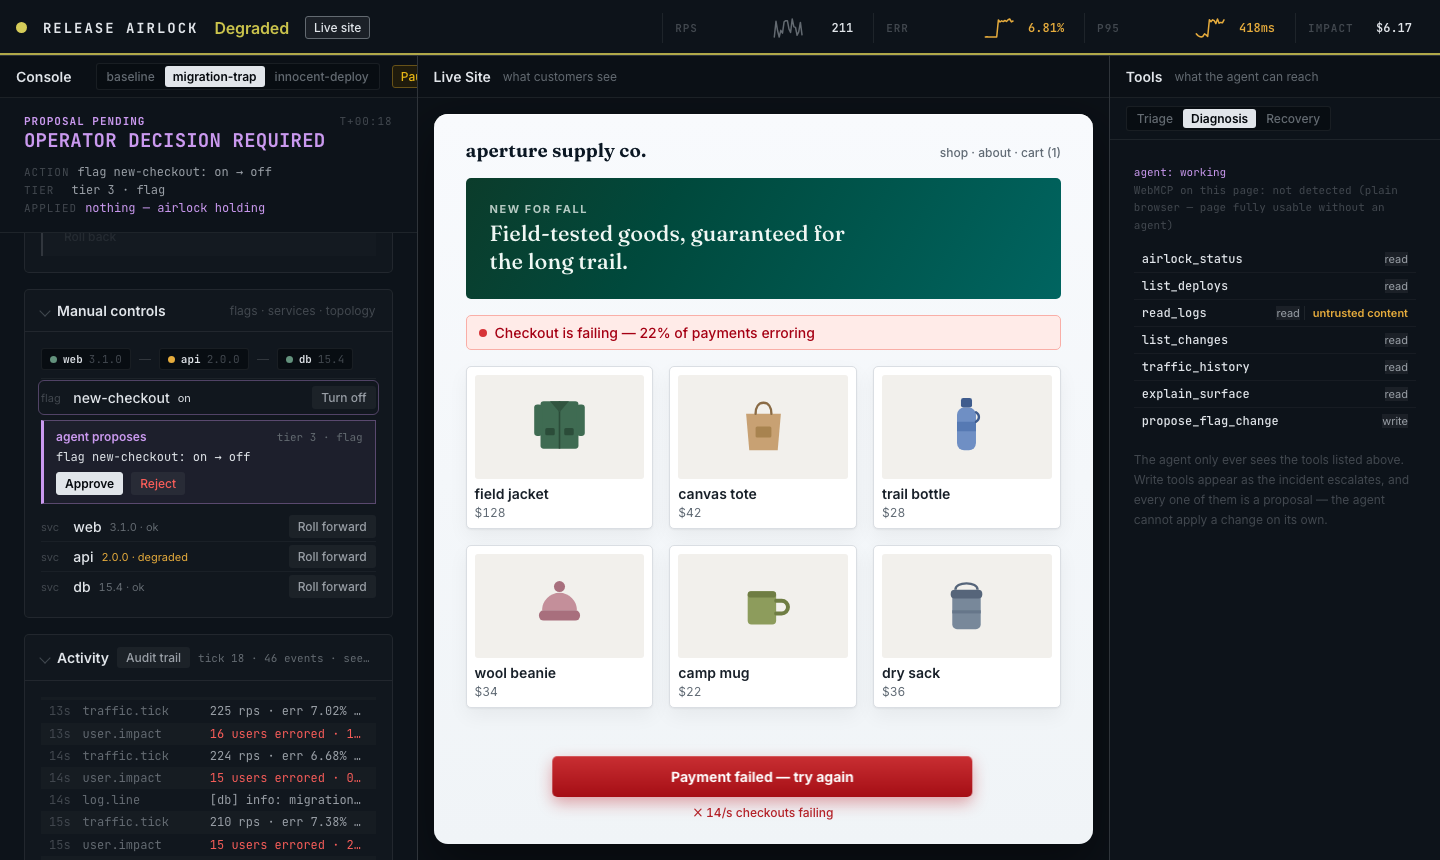
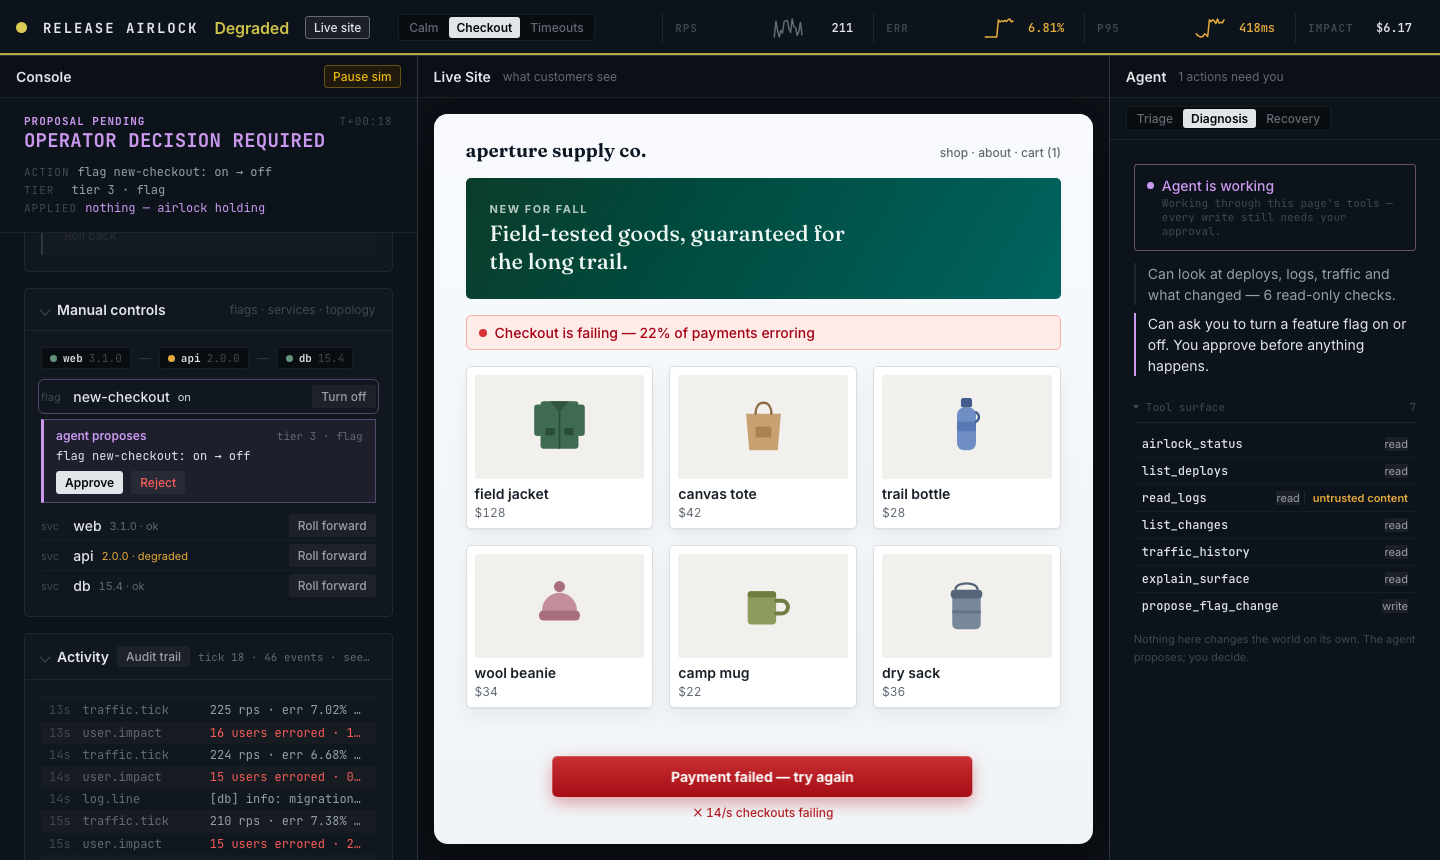
M5: the Tools panel becomes an Agent surface (ux-debt #12)
Sid: "'Tools — what the agent can reach' sounds extremely unnatural to the
product ... that shouldn't be taking real estate." Correct — no release
console lists airlock_status / propose_rollback with read/write badges.

Rules taken from real agent surfaces read live in-browser, not from taste:
- Vercel Agent: the surface is TASKS and USAGE. There is no capability
  inventory anywhere; capability is described in outcome language
  ("Validated improvements", "Last-mile verification").
- GitHub Copilot Agents: describes what it does FOR you, puts the function
  list behind a link ("View Copilot cloud agent capabilities"), and designs
  its empty state (heading + one sentence, centred, no void).

So the rail now leads with, in order: agent presence -> what it can do in
the operator's words -> the raw tool surface, subordinate but still on
screen. The capability sentences are DERIVED from the live surface, so they
cannot drift from the real tools: "Can look at deploys, logs, traffic and
what changed — 6 read-only checks." / "Can ask you to turn a feature flag
on or off, roll a deploy back ... You approve before anything happens."

The raw list stays visible on purpose: tool materialization on the mode
flip is the film's money shot, and it is the judges' first tiebreak.

Also in this pass:
- Scenario picker moved OUT of the console header into the masthead. With
  the store pane open that header is ~420px; three chips plus a subtitle
[…]

diff --git a/src/main.ts b/src/main.ts
@@ -17,6 +17,23 @@ const DEFAULT_TEMPLATE = 'migration-trap';
 // fast), ?dev=1 shows the manual health buttons (token demo, M1 leftover).
 const params = new URLSearchParams(location.search);
 const requestedTemplate = params.get('template') ?? DEFAULT_TEMPLATE;
+/**
+ * Scenario names as an operator would see them. Deliberately symptom-level:
+ * "migration-trap" is internal jargon AND naming the cause would hand over
+ * the answer the range exists to test.
+ */
+const TEMPLATE_LABELS: Record<string, string> = {
+  baseline: 'Calm',
+  'migration-trap': 'Checkout',
+  'innocent-deploy': 'Timeouts',
+};
+/** the fuller phrasing, on hover — the chip itself must stay one word */
+const TEMPLATE_TITLES: Record<string, string> = {
+  baseline: 'Calm day — nothing is wrong',
+  'migration-trap': 'Checkout is failing',
+  'innocent-deploy': 'Timeouts spreading across routes',
+};
+
 const TEMPLATE_ID = templateIds().includes(requestedTemplate)
   ? requestedTemplate
   : DEFAULT_TEMPLATE;
@@ -33,6 +50,14 @@ app.innerHTML = `
       <span class="health-word" id="health-word">Nominal</span>
       <button type="button" id="site-toggle" data-testid="site-toggle" aria-pressed="false"
               title="show what customers are seeing right now">Live site</button>
+      <div class="seg" id="template-pick" data-testid="template-pick" role="radiogroup" aria-label="Scenario">
+        ${templateIds()
+          .map(
+            (id) =>
+              `<button type="button" role="radio" data-template="${id}" data-testid="template-${id}" aria-checked="${id === TEMPLATE_ID}" title="${TEMPLATE_TITLES[id] ?? id}">${TEMPLATE_LABELS[id] ?? id}</button>`
+          )
+          .join('')}
+      </div>
       <span class="spacer"></span>
       <div class="tele" id="tele" data-testid="tele">
         ${(['rps', 'err', 'p95'] as const)
@@ -64,15 +89,6 @@ app.innerHTML = `
     <section class="pane" id="console" aria-label="Console">
       <header>
         Console
-        <span class="pane-sub">what is true right now</span>
-        <div class="seg" id="template-pick" data-testid="template-pick" role="radiogroup" aria-label="Scenario">
-          ${templateIds()
-            .map(
-              (id) =>
-                `<button type="button" role="radio" data-template="${id}" data-testid="template-${id}" aria-checked="${id === TEMPLATE_ID}">${id}</button>`
-            )
-            .join('')}
-        </div>
         <button type="button" id="sim-run" data-testid="sim-run" aria-pressed="false">Run sim</button>
       </header>
       <div class="body">
@@ -107,6 +123,7 @@ app.innerHTML = `
                 <path class="chart-line" d="" vector-effect="non-scaling-stroke" />
               </svg>
               <span class="chart-slo" id="chart-slo" title="1% error budget"></span>
+              <p class="chart-empty">Nothing plotted yet — start the scenario and the error rate builds here, so you can see when it began and whether it is recovering.</p>
             </div>
             <div class="chart-axis"><span>60 ticks ago</span><span>now</span></div>
           </section>
@@ -184,10 +201,10 @@ app.innerHTML = `
       <span class="ac-dot"></span><span class="ac-label">agent</span>
     </div>
 
-    <section class="pane" id="tool-rail" aria-label="Tool rail">
+    <section class="pane" id="tool-rail" aria-label="Agent">
       <header>
-        Tools
-        <span class="pane-sub">what the agent can reach</span>
+        Agent
+        <span class="pane-sub" id="rail-sub">standing by</span>
       </header>
       <div class="rail-modes">
         <div class="mode-switch" id="mode-switch" data-testid="mode-switch">
@@ -198,12 +215,33 @@ app.innerHTML = `
         </div>
       </div>
       <div class="body">
-        <div class="rail-status">
-          <span id="agent-conn" data-testid="agent-conn" data-state="off">agent: none seen</span><br/>
-          WebMCP on this page: <span id="webmcp-status">…</span>
+        <div class="agent-presence" id="agent-presence" data-state="off">
+          <span class="ap-dot" aria-hidden="true"></span>
+          <span class="ap-text">
+            <span id="agent-conn" data-testid="agent-conn" data-state="off">No agent connected</span>
+            <span class="ap-sub ap-sub-off">WebMCP on this page: <span id="webmcp-status">…</span></span>
+            <span class="ap-sub ap-sub-on">Working through this page's tools — every write still needs your approval.</span>
+          </span>
         </div>
-        <ul id="tool-list" data-testid="tool-list"></ul>
-        <div class="placeholder rail-note">The agent only ever sees the tools listed above. Write tools appear as the incident escalates, and every one of them is a proposal — the agent cannot apply a change on its own.</div>
+
+        <div class="agent-can" id="agent-can">
+          <p class="can-line" id="can-read"></p>
+          <p class="can-line" id="can-write"></p>
+        </div>
+
+        <details class="tool-surface" id="tool-surface" open>
+          <summary><span class="ts-label">Tool surface</span><span class="ts-count" id="tool-count"></span></summary>
+          <ul id="tool-list" data-testid="tool-list"></ul>
+        </details>
+
+        <p class="rail-foot">Nothing here changes the world on its own. The agent proposes; you decide.</p>
+
+        <div class="agent-empty" id="agent-empty">
+          <p class="ae-head">No agent has joined yet</p>
+          <p class="ae-body">Open this page in a browser that speaks WebMCP and an assistant will
+          discover the checks above on its own — no setup, no keys, no copying context across.</p>
+          <p class="ae-body">You stay in the console either way. The page works exactly the same without one.</p>
+        </div>
       </div>
     </section>
   </div>
@@ -597,6 +635,13 @@ function resolveApprovalCard(proposalSeq: number): void {
 
 const agentCursor = document.querySelector<HTMLDivElement>('#agent-cursor')!;
 const agentConn = document.querySelector<HTMLElement>('#agent-conn')!;
+const agentPresence = document.querySelector<HTMLElement>('#agent-presence')!;
+/** keep the presence card and the chip telling the same story */
+const setPresence = (state: 'off' | 'idle' | 'live', label: string): void => {
+  agentConn.dataset.state = state;
+  agentConn.textContent = label;
+  agentPresence.dataset.state = state;
+};
 let agentIdleTimer: number | undefined;
 
 function moveAgentCursor(target: Element | null): void {
@@ -605,15 +650,18 @@ function moveAgentCursor(target: Element | null): void {
   if (r.width === 0) return;
   // ride the TOP-LEFT shoulder of the target: landing on the middle put the
   // label straight over the Approve button the human needs to click
-  agentCursor.style.transform = `translate(${Math.round(r.left - 6)}px, ${Math.round(r.top - 9)}px)`;
+  // Sit FULLY above the target, never on top of it. `top - 9` still covered
+  // the first ~9px of a full-width row (it was landing on the db service
+  // line); clamp so a target near the top of the viewport keeps the label
+  // on screen. Caught by screenshot, like the Approve-button overlap before.
+  const labelY = Math.max(4, Math.round(r.top - 22));
+  agentCursor.style.transform = `translate(${Math.round(r.left - 6)}px, ${labelY}px)`;
   agentCursor.dataset.state = 'active';
-  agentConn.dataset.state = 'live';
-  agentConn.textContent = 'agent: working';
+  setPresence('live', 'Agent is working');
   window.clearTimeout(agentIdleTimer);
   agentIdleTimer = window.setTimeout(() => {
     agentCursor.dataset.state = 'idle';
-    agentConn.dataset.state = 'idle';
-    agentConn.textContent = 'agent: idle';
+    setPresence('idle', 'Agent connected, waiting');
   }, 4000);
 }
 
@@ -1225,6 +1273,43 @@ runBtn.addEventListener('click', () => {
 
 // ---- WebMCP tool surface (M3-01: reads) ----------------------------------
 
+/**
+ * What the agent can do RIGHT NOW, said the way an operator would say it.
+ * Derived from the live surface, so it can never drift from the real tools —
+ * the raw names stay available underneath for anyone who wants them.
+ */
+const HUMAN_WRITE: Record<string, string> = {
+  propose_flag_change: 'turn a feature flag on or off',
+  propose_rollback: 'roll a deploy back',
+  propose_rollforward: 'ship a fixed build forward',
+  propose_env_change: 'change an environment value',
+  propose_route_change: 'move traffic to another target',
+};
+
+function renderCapability(tools: AirlockTools): void {
+  const active = tools.list().filter((t) => t.status === 'active');
+  const writes = active.filter((t) => !t.readOnly);
+  const readEl = document.querySelector<HTMLElement>('#can-read')!;
+  const writeEl = document.querySelector<HTMLElement>('#can-write')!;
+  const countEl = document.querySelector<HTMLElement>('#tool-count')!;
+
+  readEl.textContent = `Can look at deploys, logs, traffic and what changed — ${active.length - writes.length} read-only checks.`;
+
+  if (writes.length === 0) {
+    writeEl.textContent = 'Cannot change anything in this mode.';
+    writeEl.dataset.tone = 'none';
+  } else {
+    const phrases = writes.map((w) => HUMAN_WRITE[w.name] ?? w.name);
+    const last = phrases.pop();
+    writeEl.textContent = `Can ask you to ${phrases.length ? `${phrases.join(', ')} or ${last}` : last}. You approve before anything happens.`;
+    writeEl.dataset.tone = 'write';
+  }
+  countEl.textContent = String(active.length);
+
+  const sub = document.querySelector<HTMLElement>('#rail-sub');
+  if (sub) sub.textContent = writes.length === 0 ? 'read-only' : `${writes.length} actions need you`;
+}
+
 function renderToolRail(tools: AirlockTools): void {
   const list = document.querySelector<HTMLUListElement>('#tool-list')!;
   list.innerHTML = '';
@@ -1242,13 +1327,21 @@ function renderToolRail(tools: AirlockTools): void {
     `;
     li.querySelector('.tool-name')!.textContent = t.name;
     if (t.status === 'tombstoned') {
-      li.querySelector('.tool-badge-tombstone')!.textContent = t.tombstone ?? 'removed';
+      // The vanishing is the point, and it has to read in one glance — the
+      // full reason ("left with recovery mode") wrapped to two ragged lines.
+      // Short label on screen, exact reason on hover; explain_surface carries
+      // the long form for anyone who asks the agent.
+      const badge = li.querySelector<HTMLElement>('.tool-badge-tombstone')!;
+      badge.textContent = 'removed';
+      if (t.tombstone) badge.title = t.tombstone;
+      li.title = t.tombstone ?? '';
     }
     list.append(li);
   }
   document.querySelectorAll<HTMLButtonElement>('#mode-switch [data-mode]').forEach((b) => {
     b.setAttribute('aria-pressed', String(b.dataset.mode === tools.mode()));
   });
+  renderCapability(tools);
 }
 
 const airlockTools = createAirlockTools(runWorkerQuery, proposeToWorker);

diff --git a/src/styles/shell.css b/src/styles/shell.css
@@ -845,17 +845,91 @@ body {
 .ap-key input { accent-color: var(--warn); }
 .approval-card[data-tier='4'] { border-color: var(--warn-dim); border-left-color: var(--warn); }
 
-/* --- tool rail (M3): the agent's surface, human-legible ---- */
-.rail-status {
-  font-family: var(--font-instrument);
-  font-size: var(--text-2xs);
-  color: var(--ink-ghost);
+/* --- agent rail: presence and capability first, raw names underneath ------
+   Rules taken from real agent surfaces read in-browser (Vercel Agent,
+   GitHub Copilot Agents): an agent surface shows WORK and CAPABILITY in
+   outcome language; the function inventory lives behind a disclosure. */
+.agent-presence {
+  display: flex;
+  align-items: flex-start;
+  gap: var(--sp-2);
+  padding: var(--sp-3);
+  border: 1px solid var(--line);
+  border-radius: var(--r-sm);
   margin-bottom: var(--sp-3);
+}
+.agent-presence .ap-dot {
+  width: 7px;
+  height: 7px;
+  border-radius: 50%;
+  margin-top: 5px;
+  flex: none;
+  background: var(--ink-ghost);
+}
+.agent-presence[data-state='live'] .ap-dot { background: var(--actor-agent); }
+.agent-presence[data-state='idle'] .ap-dot { background: var(--actor-agent); opacity: 0.55; }
+.agent-presence[data-state='live'] { border-color: color-mix(in oklch, var(--actor-agent) 40%, var(--line)); }
+.agent-presence .ap-text { display: flex; flex-direction: column; gap: 2px; min-width: 0; }
+.agent-presence #agent-conn { color: var(--ink); font-size: var(--text-sm); font-weight: 500; }
+.agent-presence[data-state='live'] #agent-conn { color: var(--actor-agent); }
+.agent-presence .ap-sub {
+  color: var(--ink-ghost);
+  font-size: var(--text-2xs);
+  font-family: var(--font-instrument);
+}
+
+/* capability, in the operator's words — the thing that changes on mode flip */
+.agent-can { display: flex; flex-direction: column; gap: var(--sp-2); margin-bottom: var(--sp-4); }
+.can-line {
+  margin: 0;
+  font-size: var(--text-sm);
+  line-height: 1.5;
+  color: var(--ink-dim);
+  padding-left: var(--sp-3);
+  border-left: 2px solid var(--line);
+}
+.can-line[data-tone='write'] {
+  color: var(--ink);
+  border-left-color: var(--actor-agent);
+}
+.can-line[data-tone='none'] { color: var(--ink-ghost); }
+
+/* the raw surface: present and watchable (it is the mode-flip proof), but
+   subordinate to the sentence above it */
+.tool-surface { margin-bottom: var(--sp-3); }
+.tool-surface > summary {
+  cursor: pointer;
+  list-style: none;
+  display: flex;
+  align-items: center;
+  gap: var(--sp-2);
+  padding: var(--sp-2) 0;
+  color: var(--ink-ghost);
+  font-size: var(--text-2xs);
+  font-family: var(--font-instrument);
+  border-bottom: 1px solid var(--line);
+}
+.tool-surface > summary::-webkit-details-marker { display: none; }
+.tool-surface > summary::before {
+  content: '';
+  width: 0; height: 0;
+  border-left: 4px solid currentColor;
+  border-top: 3.5px solid transparent;
+  border-bottom: 3.5px solid transparent;
+  transition: transform 120ms ease;
+}
+.tool-surface[open] > summary::before { transform: rotate(90deg); }
+.tool-surface > summary:hover { color: var(--ink-dim); }
+.tool-surface .ts-count { margin-left: auto; font-variant-numeric: tabular-nums; }
+.rail-foot {
+  margin: 0;
+  color: var(--ink-ghost);
+  font-size: var(--text-2xs);
   line-height: 1.6;
 }
 #tool-list {
   list-style: none;
-  margin: 0 0 var(--sp-4);
+  margin: var(--sp-2) 0 0;
   padding: 0;
   font-family: var(--font-instrument);
   font-size: var(--text-xs);
@@ -1098,3 +1172,79 @@ body {
   letter-spacing: 0.05em;
 }
 .sf-outage-msg { font-size: var(--text-sm); color: oklch(68% 0.02 250); }
+
+/* --- console header: the run control must never be clipped ---------------
+   With the store pane open the console header is ~420px. The scenario chips
+   are a setup control, so they yield space first; the run control never
+   shrinks and never wraps. Verified by screenshot at 1440 and 1120. */
+#console > header { min-width: 0; }
+.masthead #template-pick { flex: none; margin-left: var(--sp-3); }
+#console > header #sim-run { flex: none; white-space: nowrap; margin-left: auto; }
+
+/* --- masthead: the numbers matter more than their sparklines -------------
+   Below ~1300px the scenario chips and the telemetry compete. The readings
+   are the instrument; the sparkline is decoration, so it yields first and
+   IMPACT never falls off the edge. Verified by screenshot at 1120. */
+.masthead { min-width: 0; }
+.masthead .tele { min-width: 0; }
+@media (max-width: 1300px) {
+  .masthead .tele-spark { display: none; }
+  .masthead #template-pick { margin-left: var(--sp-2); }
+}
+@media (max-width: 1120px) {
+  .masthead .health-word { display: none; }
+}
+
+/* designed empty state for the rail — a void is a bug (rule taken from
+   Vercel + GitHub agent surfaces, both of which design every empty region) */
+.agent-empty {
+  margin-top: var(--sp-5);
+  padding-top: var(--sp-4);
+  border-top: 1px solid var(--line);
+}
+.agent-empty .ae-head {
+  margin: 0 0 var(--sp-2);
+  color: var(--ink-dim);
+  font-size: var(--text-sm);
+  font-weight: 600;
+}
+.agent-empty .ae-body {
+  margin: 0 0 var(--sp-2);
+  color: var(--ink-ghost);
+  font-size: var(--text-2xs);
+  line-height: 1.65;
+}
+/* it is an EMPTY state: once an agent is present it has no business here */
+.agent-presence[data-state='live'] ~ .agent-empty,
+.agent-presence[data-state='idle'] ~ .agent-empty { display: none; }
+
+/* the chart at rest is a designed empty state, not a gridded void */
+.chart-empty {
+  display: none;
+  position: absolute;
+  inset: 0;
+  margin: 0;
+  align-items: center;
+  justify-content: center;
+  text-align: center;
+  padding: 0 var(--sp-6);
+  color: var(--ink-ghost);
+  font-size: var(--text-2xs);
+  line-height: 1.6;
+}
+.chart[data-empty='true'] .chart-empty { display: flex; }
+.chart[data-empty='true'] .chart-slo { display: none; }
+.chart[data-empty='true'] .chart-axis { opacity: 0.35; }
+.chart[data-empty='true'] .chart-plot svg { opacity: 0.25; }
+
+/* the presence card must never contradict itself: "Agent is working" and
+   "WebMCP not detected" were being shown together (caught by screenshot) */
+.agent-presence .ap-sub-on { display: none; }
+.agent-presence[data-state='live'] .ap-sub-off,
+.agent-presence[data-state='idle'] .ap-sub-off { display: none; }
+.agent-presence[data-state='live'] .ap-sub-on,
+.agent-presence[data-state='idle'] .ap-sub-on { display: inline; }
+
+/* tool rows are a scannable column: one line each, never ragged wraps */
+#tool-list li { white-space: nowrap; }
+#tool-list .tool-name { overflow: hidden; text-overflow: ellipsis; }
